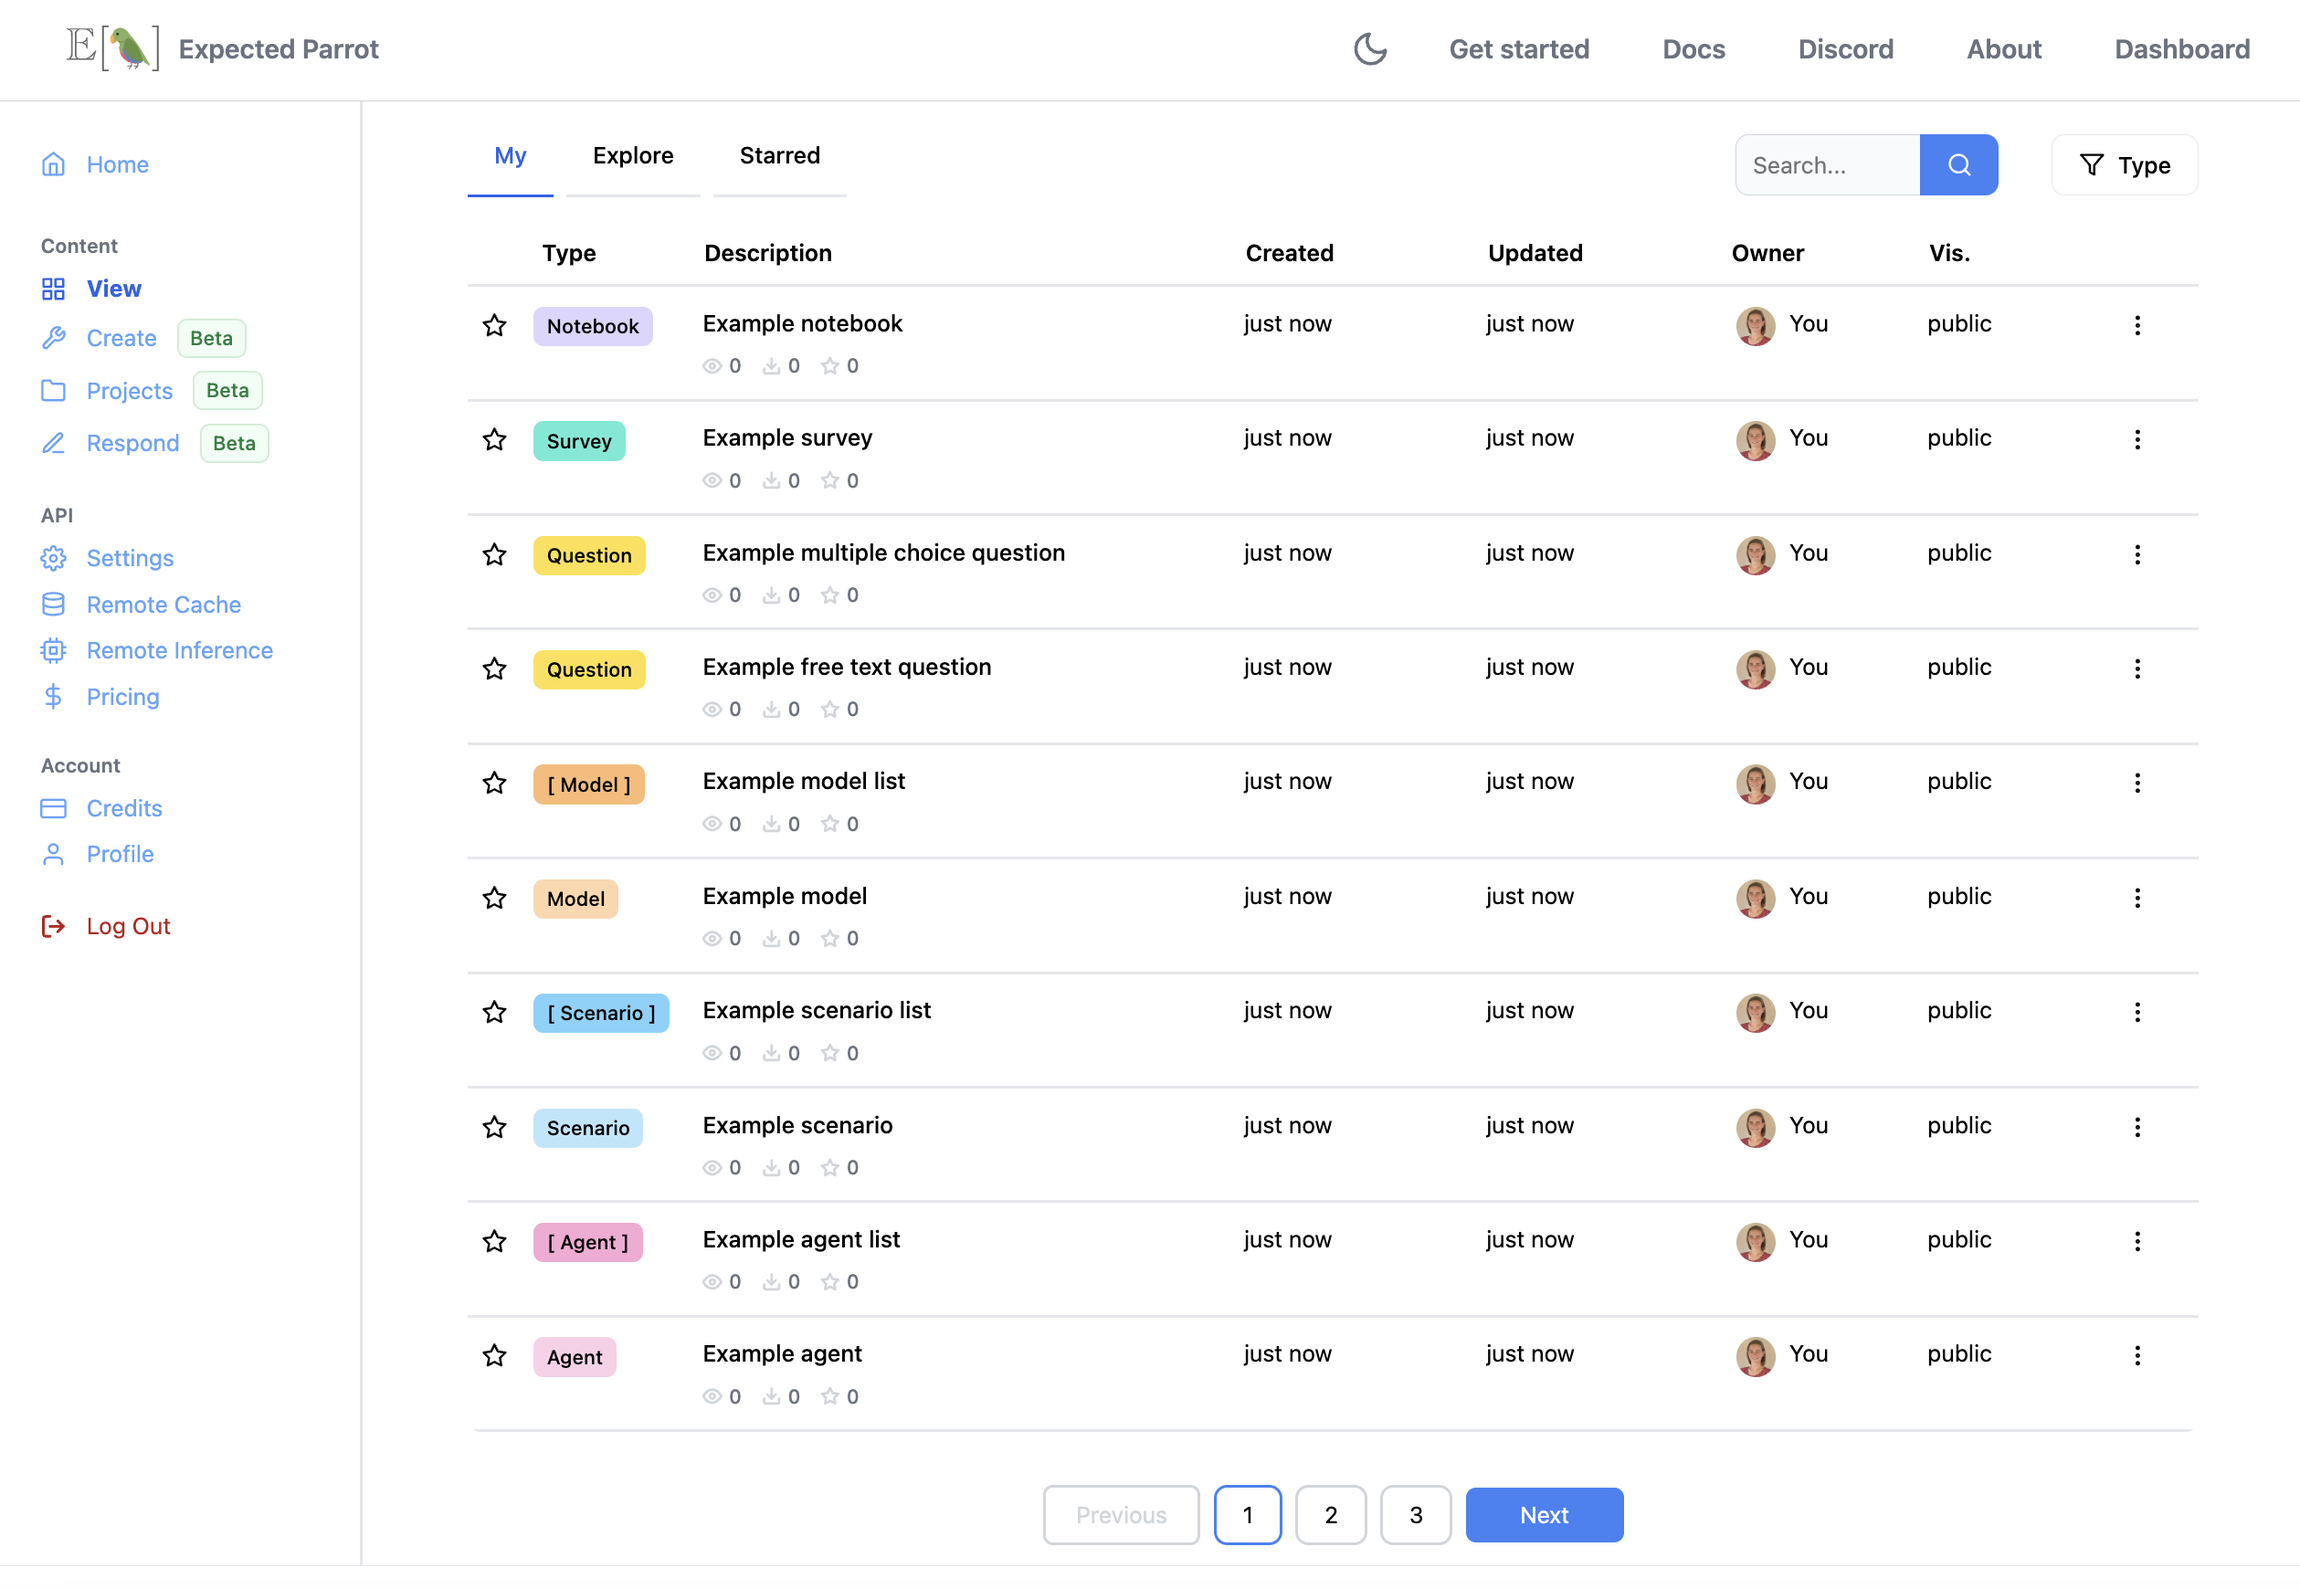
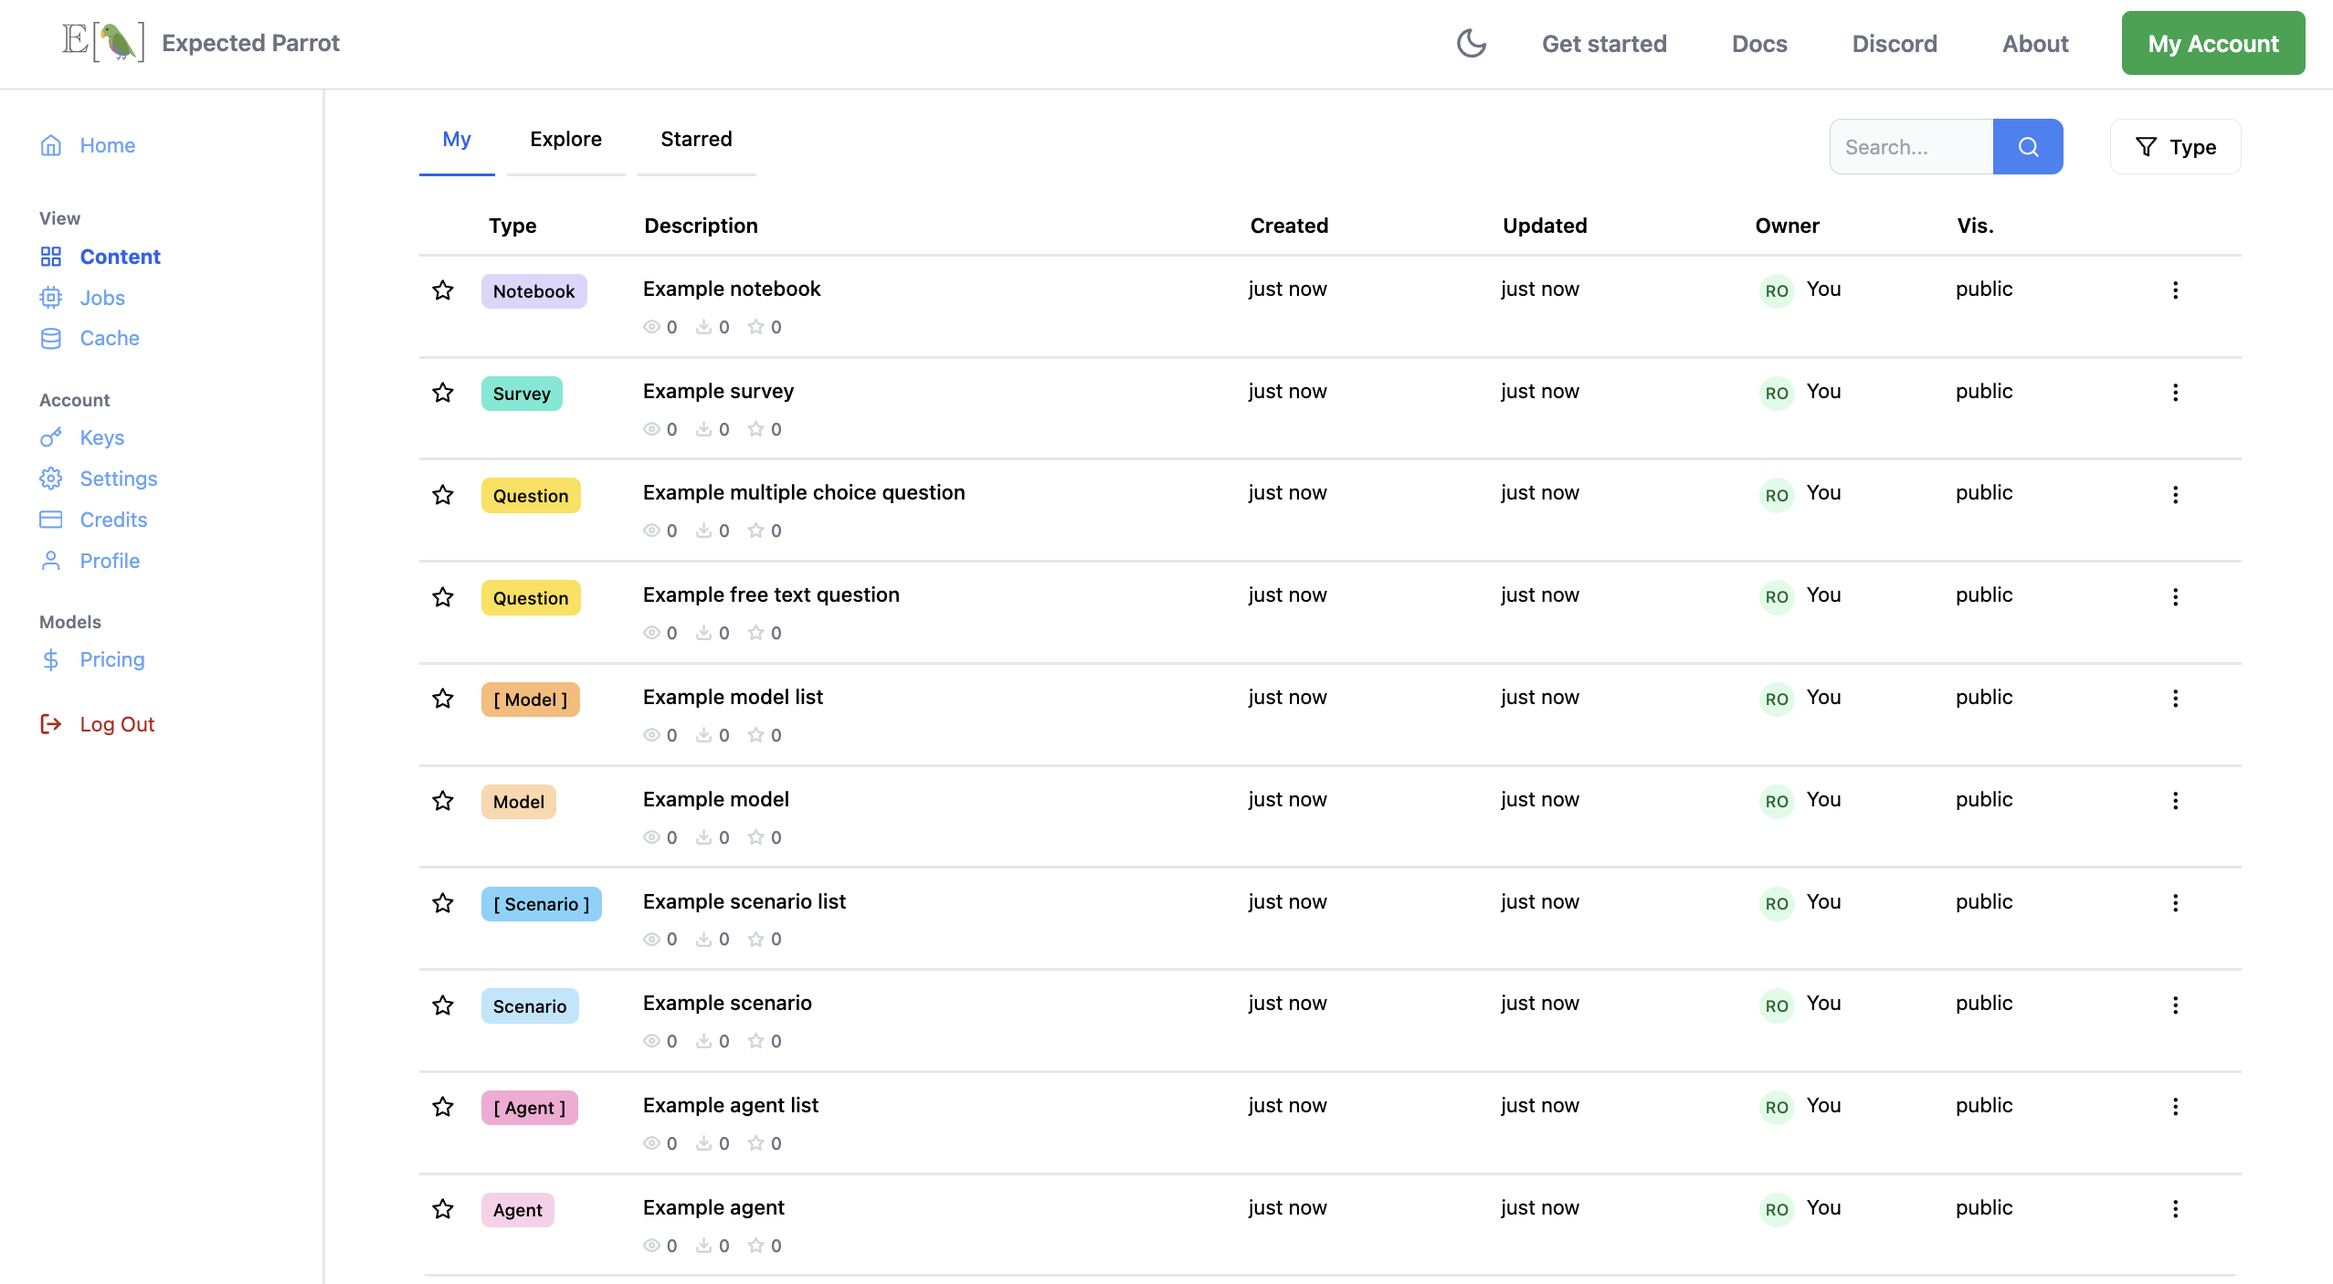
updating docs images

diff --git a/docs/coop.rst b/docs/coop.rst
@@ -39,7 +39,7 @@ Your account comes with an **Expected Parrot API key** that allows you to:
 
 You can inspect your key and reset it at any time at your `Settings <https://www.expectedparrot.com/home/settings>`_ page:
 
-.. image:: static/settings.png
+.. image:: static/home-settings.png
   :alt: Remote inference settings and Expected Parrot API key
   :align: center
   :width: 100%
@@ -77,7 +77,7 @@ See below for details on setting and changing the visibility of an object, and e
 4. Explore content
 ^^^^^^^^^^^^^^^^^^
 
-Navigate to your `Coop content <https://www.expectedparrot.com/content>`_ page to see content that you have uploaded:
+Navigate to your `Content <https://www.expectedparrot.com/content>`_ page to see content that you have uploaded:
 
 .. image:: static/coop-my-content.png
   :alt: View your content at the Coop
@@ -440,9 +440,9 @@ Feature requests
 If you have a feature request for the Coop, please let us know! 
 There are several ways to do this:
 
-- `Create an issue on GitHub <https://docs.expectedparrot.com/en/latest/contributing.html#suggesting-enhancements>`_
-- Post a message on Discord: https://discord.com/invite/mxAYkjfy9m
-- Send an email: info@expectedparrot.com
+- Create an issue at `GitHub <https://docs.expectedparrot.com/en/latest/contributing.html#suggesting-enhancements>`_
+- Post a message at `Discord <https://discord.com/invite/mxAYkjfy9m>`_
+- Send us an email: info@expectedparrot.com
 
 
 
